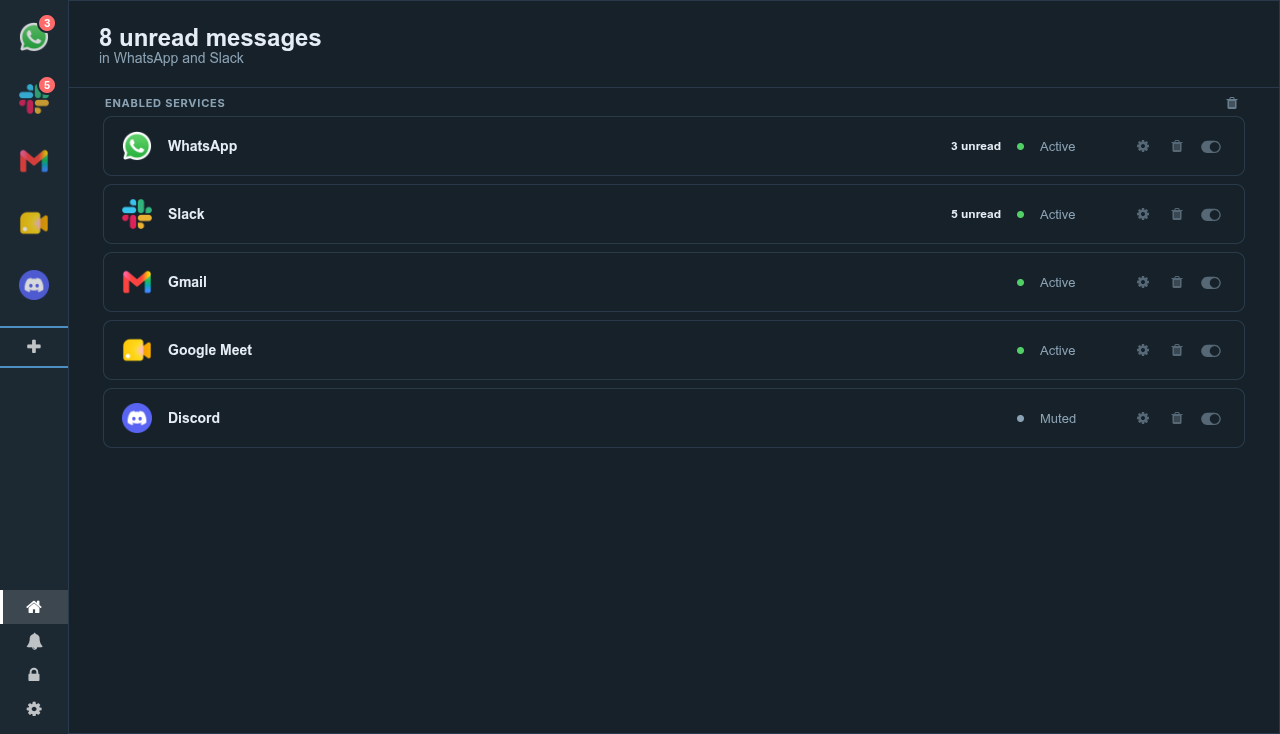
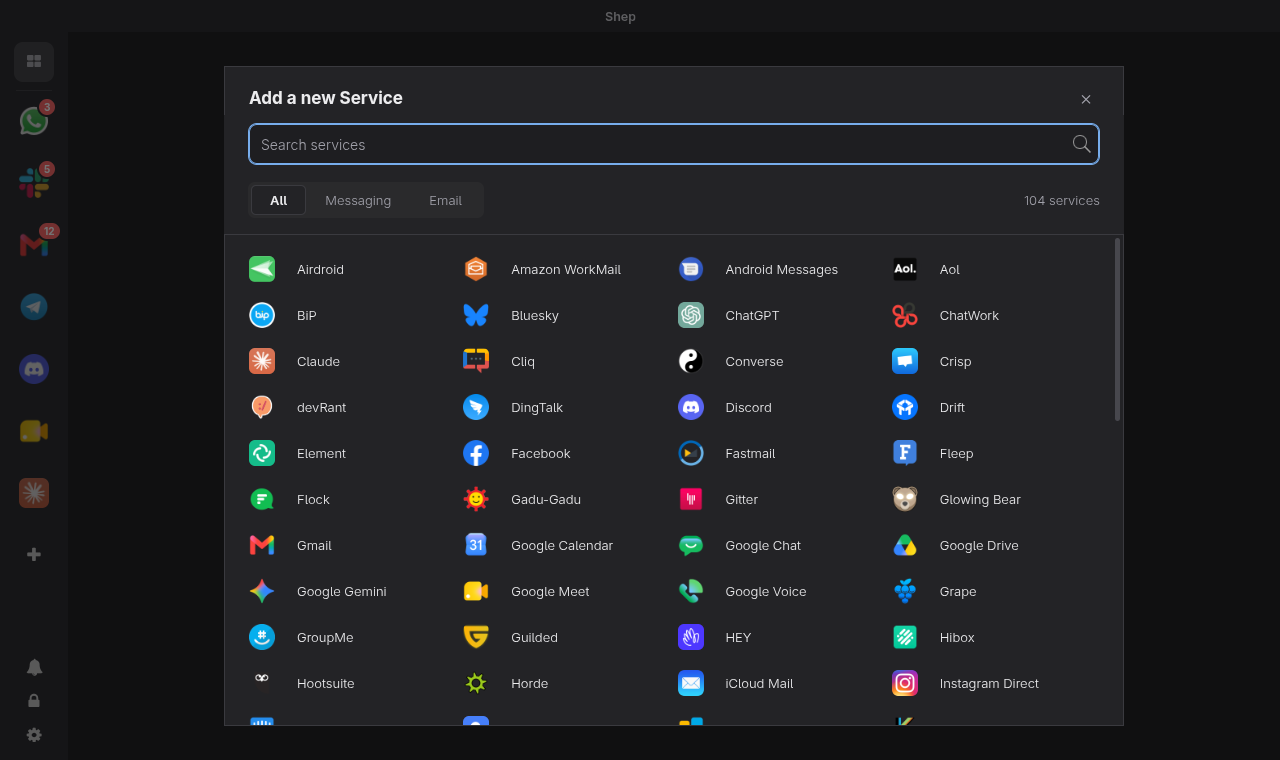
📝 docs(readme): retake the screenshots and describe the current interface and mark

diff --git a/README.md b/README.md
@@ -25,13 +25,15 @@ That is fixed. The app builds and runs from this repository with nothing but npm
 - **Service permissions are refused by default.** The old handler granted camera, microphone and location to every service that asked. Camera, microphone and screen capture are now answered once per service and the answer is kept — except for the apps whose purpose is calls, which the catalogue marks and the service's own settings can change.
 - **A third-party tracker and a hardcoded API key** were removed from the renderer, along with the dead Auth0 sign-in and profile sync, which pointed at infrastructure this fork cannot use.
 - **The catalogue is maintained here.** Seven entries pointed at services that no longer answer and were dropped; ten were added, among them Google Meet, Zoom, ChatGPT, Claude and Bluesky. `npm run check:services` reports what has rotted.
-- **A new interface.** Services sit in a rail of icons down the left; the home tab opens on what is waiting for you rather than on a catalogue; adding a service is an overlay behind one button; preferences are five sections instead of one scroll of fourteen controls; and a dark theme follows the desktop.
-- **A mark of its own**, drawn to the GNOME app icon guidelines: a sheepdog on the template's square, in Adwaita blue. `npm run icons` renders every PNG and ICO in the tree from the three SVGs in `resources/logo`.
+- **A new interface.** Services sit in a rail of icons down the left, and everything done to one is on its right click; a title bar of the app's own carries the page's back, forward and reload; workspaces group services and switch from the top of the rail; adding a service is an overlay behind the `+`; preferences are five sections instead of one scroll of fourteen controls; and a dark theme follows the desktop.
+- **A mark of its own**, drawn to the GNOME app icon guidelines: a border collie puppy on the template's square, in Adwaita blue, with a monochrome tray icon on Linux. `npm run icons` renders every PNG and ICO in the tree from the SVGs in `resources/logo`.
 - **Tests and a linter.** A Playwright suite launches the real app and drives it; `npm test` runs ESLint first.
 
 ## Install
 
-Builds are produced for Linux as an AppImage, a deb and a tarball. See [Releases](https://github.com/lukasborges/shep/releases).
+[Releases](https://github.com/lukasborges/shep/releases) carry a Linux AppImage. `npm run build:linux` also makes a deb and a tarball.
+
+Shep was briefly called Redil. Quit Redil before the first launch of Shep: that launch moves `~/.config/Redil` to `~/.config/Shep`, with your services, sign-ins and preferences.
 
 The AppImage needs FUSE 2, which some distributions no longer install by default. On Fedora that is `fuse-libs`; on Debian and Ubuntu, `libfuse2`. Without it, run the AppImage with `--appimage-extract-and-run`.
 
